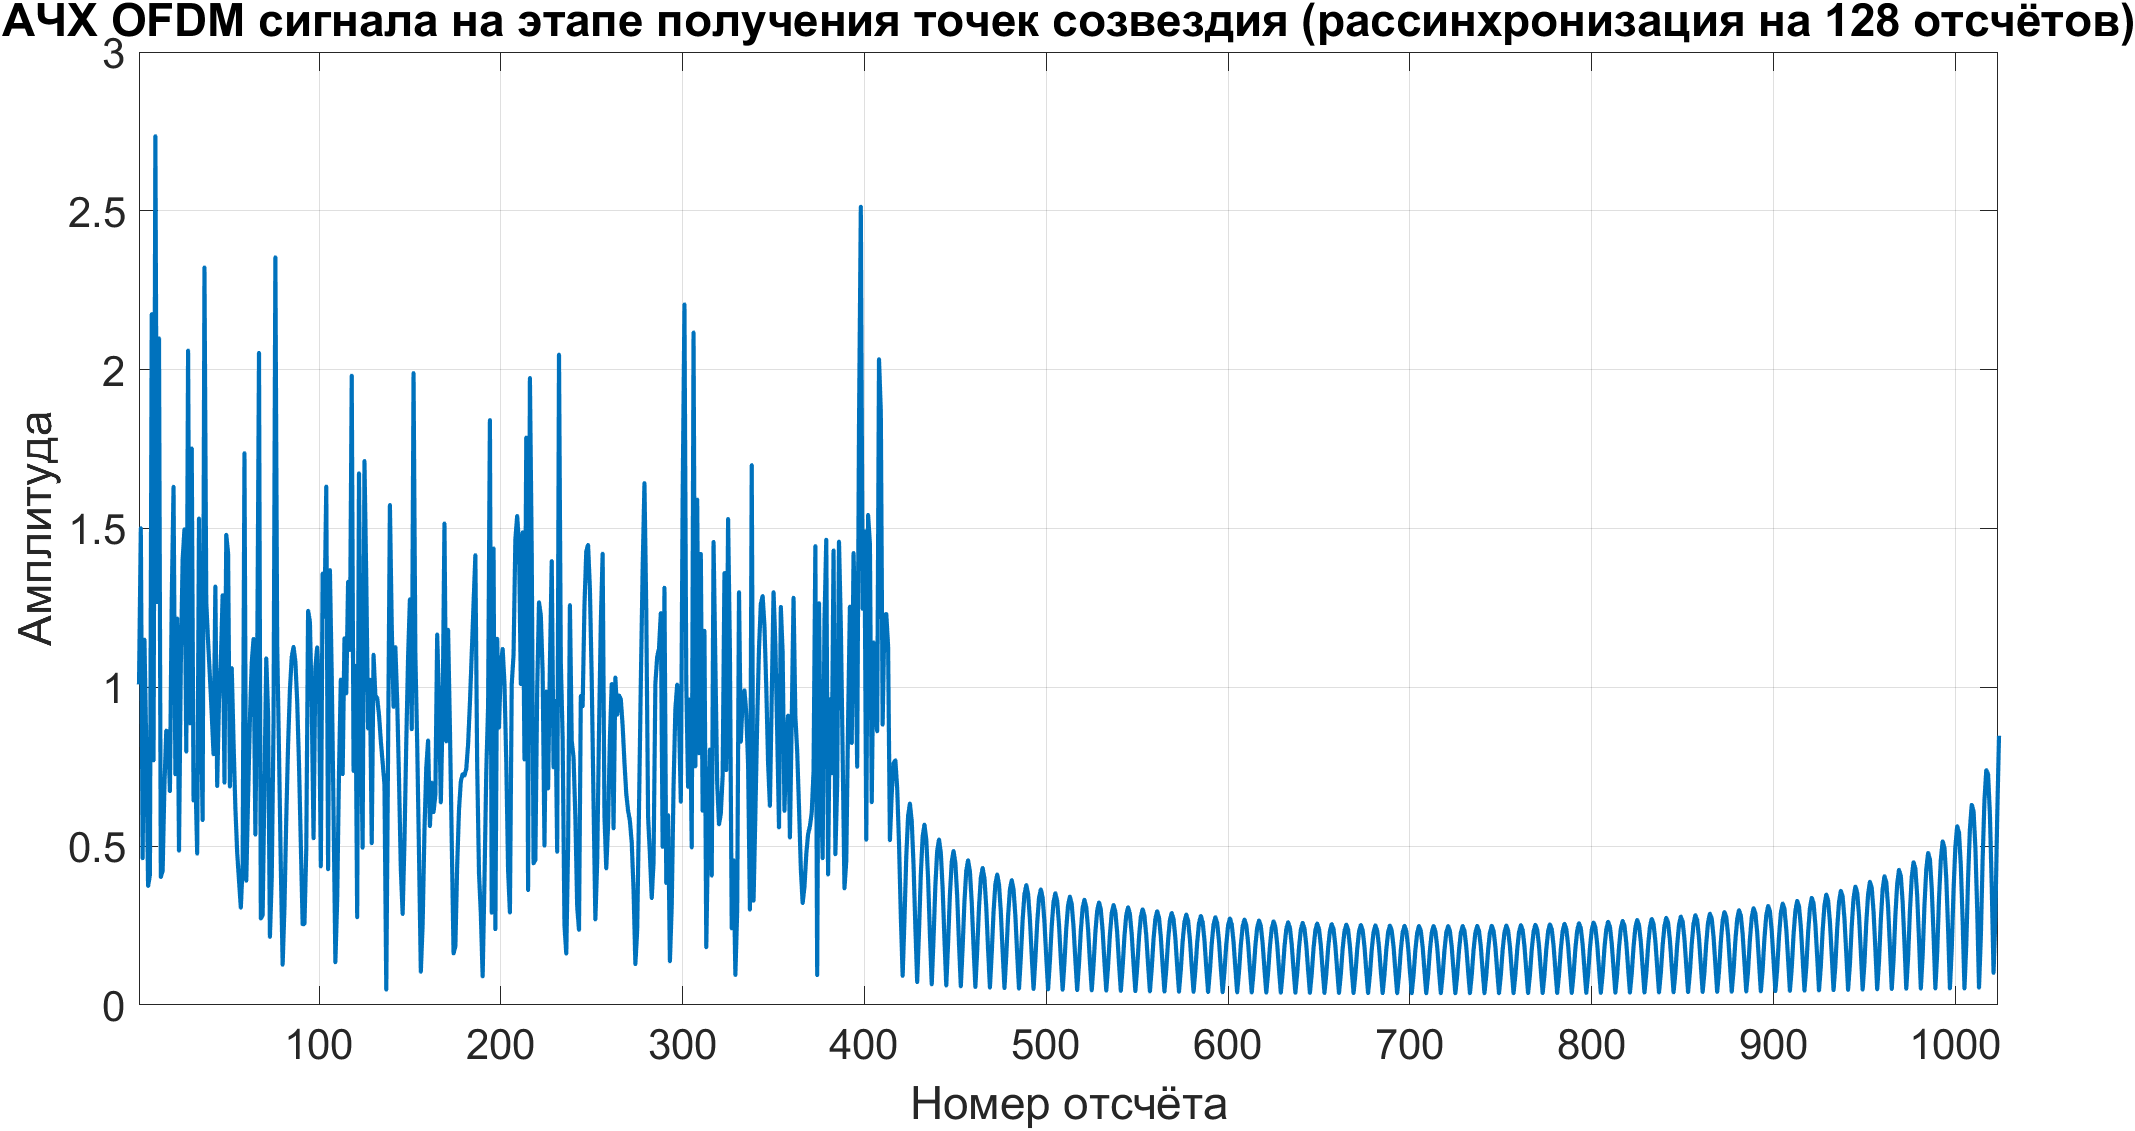
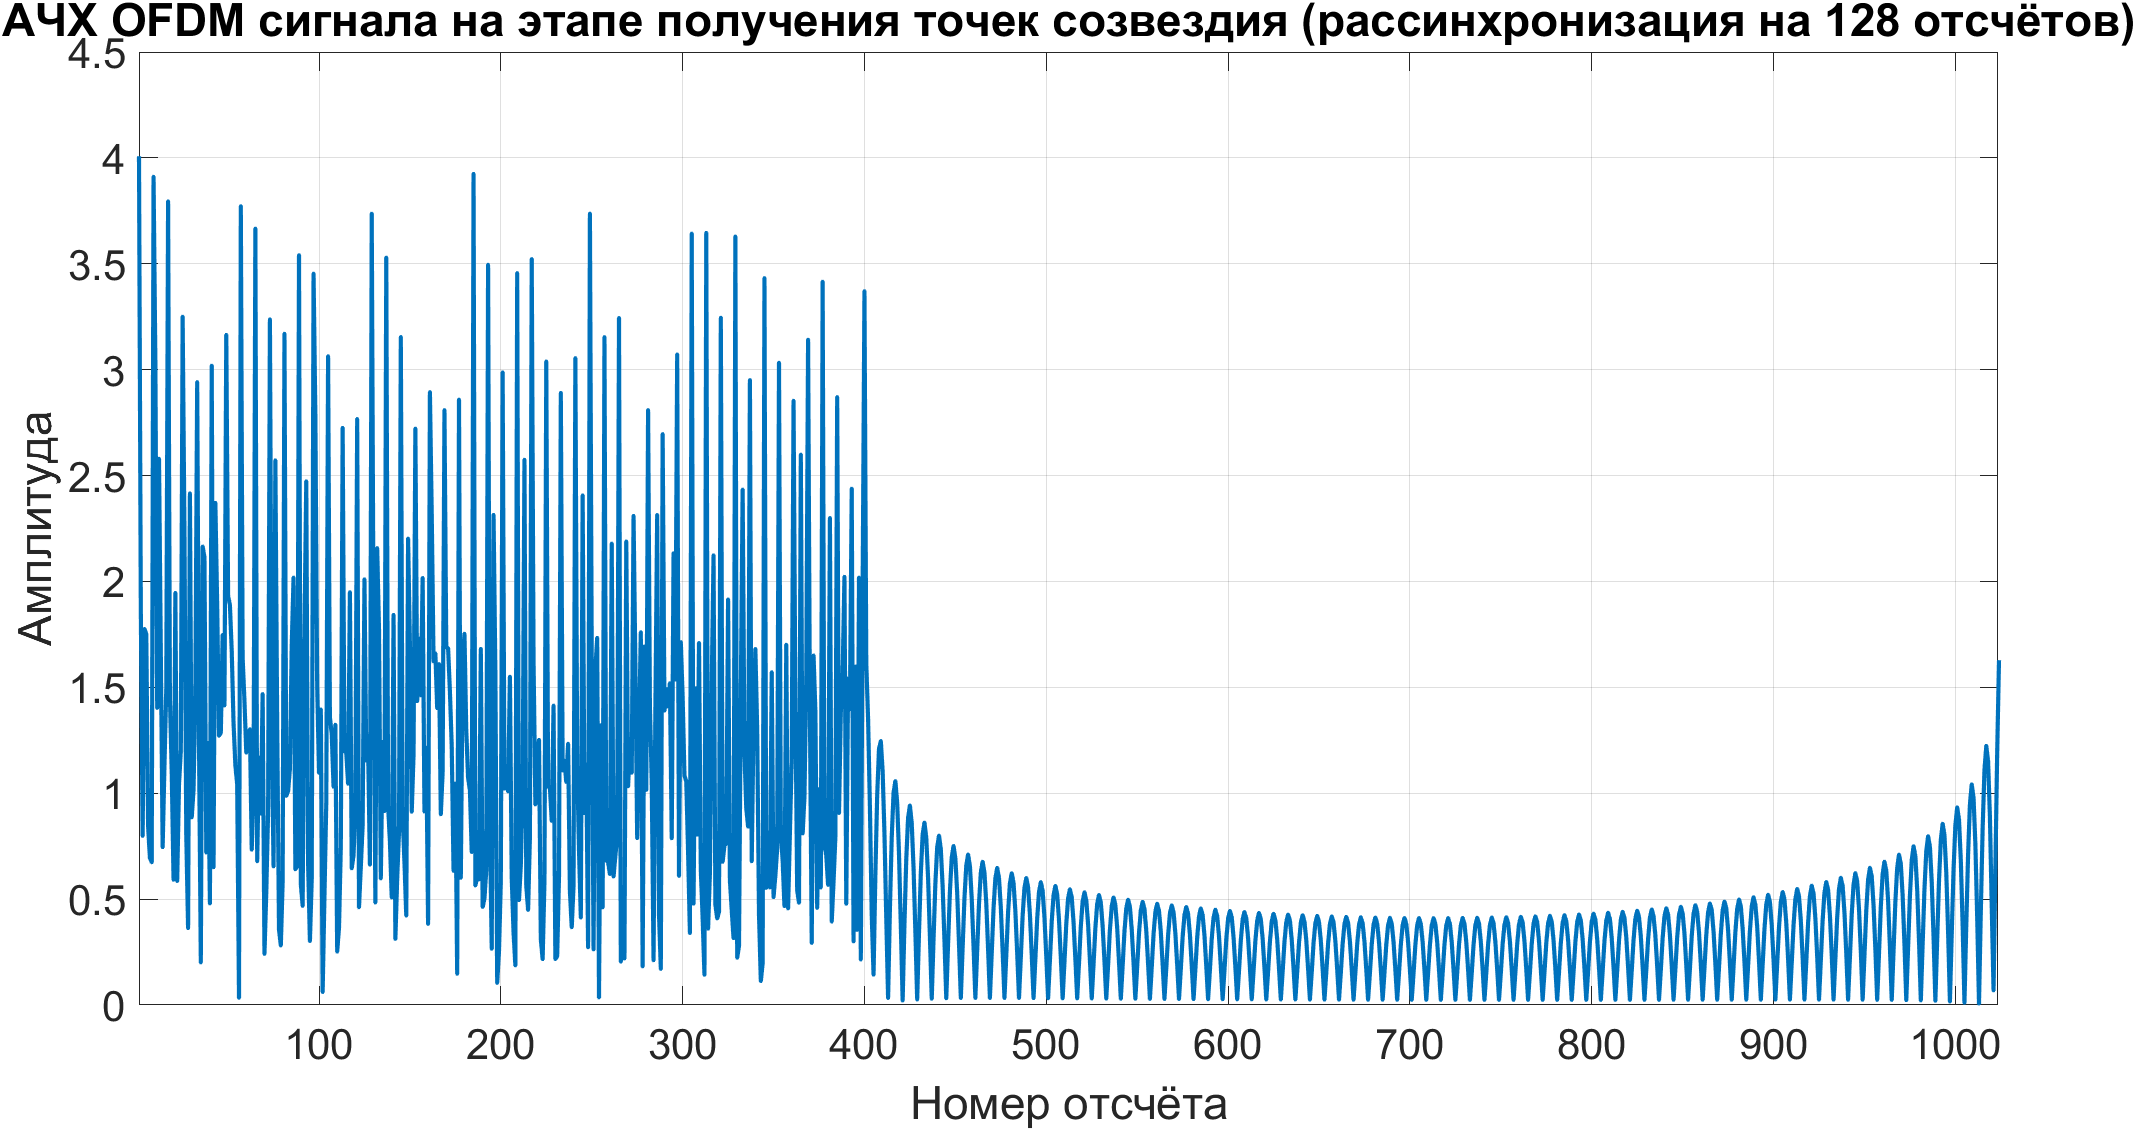
fixes made

Changed region(s): [[0.0309, 0.1238, 0.9583, 0.8974], [0.0309, 0.0309, 0.0618, 0.0619]]

diff --git a/Task 1/Main_model.m b/Task 1/Main_model.m
@@ -10,28 +10,37 @@ Amount_OFDM_Frames = 10;
 Amount_ODFM_SpF = 5;
 N_symb=Amount_OFDM_Frames*Amount_ODFM_SpF;
 
+% Параметры полосы
+Percent_pilot = 25;
+
+allCarriers = linspace(1,Nfft,Nfft); % индексы поднесущих
+amount_pilots = round(Percent_pilot/100*N_carrier);   % кол-во пилотов на всех Nfft отсчётах
+pilot_step = floor(N_carrier/amount_pilots);
+pilotCarriers = allCarriers(1:pilot_step:N_carrier-2);
+pilotCarriers = [pilotCarriers,allCarriers(N_carrier)];
+amount_pilots = length(pilotCarriers);
+
+dataCarriers = allCarriers(~ismember(allCarriers(1:N_carrier), pilotCarriers));
+amount_data_carriers = length(dataCarriers);
+
+
+
 File = 'eagle.tiff';
 Constellation = "16QAM";
-[~,bps] = constellation_func(Constellation); % bps - bits per symbol - битов на один символ созвездия
+[dict,bps] = constellation_func(Constellation); % bps - bits per symbol - битов на один символ созвездия
 
 %% 1. Чтение файла
-Size_Buffer = Amount_ODFM_SpF*Amount_OFDM_Frames*N_carrier*bps;
+Size_Buffer = Amount_ODFM_SpF*Amount_OFDM_Frames*amount_data_carriers*bps;
 input_bits = file_reader(File, Size_Buffer);
 
 %% 2. Mapping
 [TX_IQ,pad] = mapping(input_bits,Constellation);
 
 %% 3. Формирование полосы
-allCarriers = linspace(1,Nfft,Nfft); % индексы поднесущих
-P = 32;                   % кол-во пилотов на всех Nfft отсчётах
-pilotValue = 3+3j ;        % пилотное значение
+max_amplitude = max(abs(dict));
+amp_pilots = 2*max_amplitude ;        % пилотное значение
 
-pilotCarriers = allCarriers(1:round(Nfft/(P)):end);
-pilotCarriers = [pilotCarriers,allCarriers(end)]; % поднесущие пилотных сигналов
-P=P+1;
-
-dataCarriers = allCarriers(~ismember(allCarriers, pilotCarriers));
-OFDM_mapped_carriers = OFDM_symbol(TX_IQ, N_carrier, N_symb, Nfft, dataCarriers, pilotCarriers);
+OFDM_mapped_carriers = OFDM_map_carriers(TX_IQ, N_symb, Nfft, dataCarriers, pilotCarriers,amp_pilots);
 
 %% 4. OFDM-модуляция: переход во временную область + добавление CP
 Tx_OFDM_Signal_matrix = OFDM_modulator(OFDM_mapped_carriers, T_Guard); % lab 2
@@ -42,15 +51,14 @@ Tx_OFDM_Signal=Tx_OFDM_Signal_matrix(:);
 nSTO = 0;
 % nSTO = 1;                % рассинхронизация на 1 отсчёт
 % nSTO = T_Guard/2;      % рассинхронизация на T_Guard/2 отсчётов
-% nSTO = -T_Guard+1;        % рассинхронизация на T_Guard отсчётов
+% nSTO = T_Guard;        % рассинхронизация на T_Guard отсчётов
 % Tx_OFDM_Signal=add_STO(Tx_OFDM_Signal_matrix(:),nSTO);
 
 %% 5. Канал
 %SNR_dB = 25;
 %[Rx_OFDM_Signal,~] = Noise(SNR_dB, Tx_OFDM_Signal);
 figure();
-plot(abs(fft(Tx_OFDM_Signal_matrix(:,1),Nfft,1)), 'LineWidth', 2);
-% plot(mean(abs(fft(Tx_OFDM_Signal_matrix,Nfft,1)),2), 'LineWidth', 2);
+plot(abs(fft(Tx_OFDM_Signal_matrix(1:Nfft+T_Guard,1),[],1)), 'LineWidth', 2);
 xlabel('Номер отсчёта');
 ylabel('Амплитуда')
 grid on
@@ -66,7 +74,6 @@ Rx_OFDM_Signal =  reshape(Rx_OFDM_Signal,[Nfft+T_Guard, N_symb]);
 RX_OFDM_mapped_carriers = OFDM_demodulator(Rx_OFDM_Signal, T_Guard);
 
 figure();
-% plot(mean(abs(RX_OFDM_symbols),2), 'LineWidth', 2);
 plot(abs(RX_OFDM_mapped_carriers(:,1)), 'LineWidth', 2);
 xlabel('Номер отсчёта');
 ylabel('Амплитуда')
@@ -76,7 +83,7 @@ set(gca, 'Fontsize', 20)
 title_name = "АЧХ OFDM сигнала на этапе получения точек созвездия (рассинхронизация на " + num2str(nSTO) +" отсчётов)";
 title(title_name)
 
-RX_IQ = get_payload(RX_OFDM_mapped_carriers,dataCarriers,N_carrier);
+RX_IQ = get_payload(RX_OFDM_mapped_carriers,dataCarriers);
 
 RX_IQ = RX_IQ(:).';
 
@@ -91,10 +98,14 @@ output_bits = demapping(pad, RX_IQ, Constellation);
 
 if (output_bits==input_bits)
     disp("Проверка пройдена!");
+    BER = BER_func(input_bits, output_bits);
+    disp("BER="+num2str(BER));
     figure();
     display_pic(output_bits) % отображение полученной части картинки
 else
     disp("Проверка НЕ пройдена!");
+    BER = BER_func(input_bits, output_bits);
+    disp("BER="+ num2str(BER));
 end
 %% Функции
 
@@ -128,14 +139,17 @@ function display_pic(binaryImage)
     imshow(grayImage2);
 end
 % Распределить данные по поднесущим 
-function matrix=OFDM_symbol(QAM_payload, N_carrier, N_symb, Nfft, dataCarriers, pilotCarriers) 
-    symbols = zeros(Nfft, N_symb);
-    data =  reshape(QAM_payload.',[N_carrier, N_symb]);
+function mapped_carriers=OFDM_map_carriers(QAM_payload, N_symb, Nfft, dataCarriers, pilotCarriers,amp_pilots) 
+    mapped_carriers = zeros(Nfft, N_symb);
+    data =  reshape(QAM_payload.',[length(dataCarriers), N_symb]);
     
-    symbols(dataCarriers(1:N_carrier),:)=data;
-    symbols(pilotCarriers,:)=0+0j;
-
-    matrix = symbols;
+    mapped_carriers(dataCarriers,:)=data;
+    pilotValues =zeros(1,length(pilotCarriers));
+    pilotValues(1:2:end) = amp_pilots*exp(1i*0);
+    pilotValues(2:2:end) = amp_pilots*exp(1i*pi);
+    
+    pilotValues = repmat(pilotValues', 1, 50);
+    mapped_carriers(pilotCarriers,:)=pilotValues;
 end
 % Создать OFDM-symbol во времени
 function OFDM_time_guarded=OFDM_modulator(OFDM_symbols, T_guard) 
@@ -176,8 +190,8 @@ function TX_IQ=OFDM_demodulator(OFDM_time_guarded, T_guard)
 
 end
 % Извлечь данные из OFDM-символов
-function RX_IQ=get_payload(RX_OFDM_symbols, dataCarriers, N_carrier) 
-    RX_IQ=RX_OFDM_symbols(dataCarriers(1:N_carrier),:);
+function RX_IQ=get_payload(RX_OFDM_symbols, dataCarriers) 
+    RX_IQ=RX_OFDM_symbols(dataCarriers,:);
 end
 
 function y_STO=add_STO(y, nSTO)

diff --git a/Task 1/BER_func.m b/Task 1/BER_func.m
@@ -1,0 +1,8 @@
+function [BER] = BER_func(Bit_Tx, Bit_Rx)
+    % Calculate the number of errors in the stream
+    numErrors = sum(Bit_Tx ~= Bit_Rx);
+    
+    % Calculate the probability of an error (Bit Error Rate)
+    BER = numErrors / length(Bit_Tx);
+end
+
